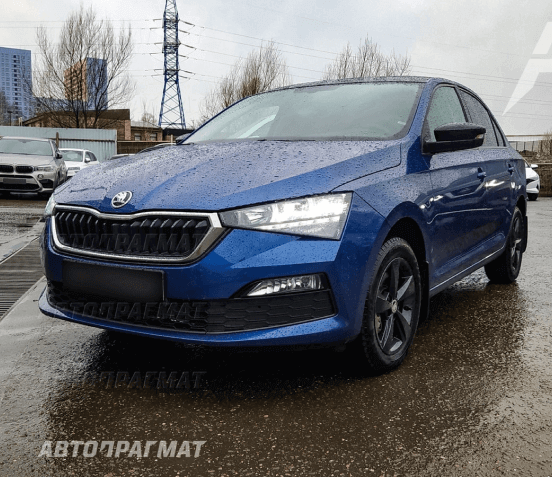
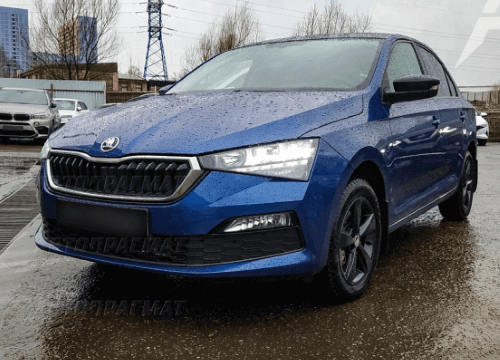
fix performance 2

diff --git a/css/common.css b/css/common.css
@@ -1,1 +1,1 @@
-:root{--Blue1: #46A6FF;--Blue2: #91CAFF;--Blue3: #3784CC;--Blue4: #225380;--Blue5: #496580;--GrayStroke1: #CFCFCF;--Gray2: #A4A4A4;--Gray3: #767676;--Gray4: #767676;--Gra5: #414141;--textColor: #ECECEC;--inputColor: #EBEBEB;--BlackBG2: #282828;--MainBlackBG: #1E1E1E}*{box-sizing:border-box}html[aria-modal=true]{--scroll-bar-width: 0;overflow:hidden;padding-right:var(--scroll-bar-width, 0)}body{background:#1e1e1e;color:#ececec;font-family:"Overpass",sans-serif;font-weight:400;font-size:14px;line-height:1.6}.apr-container{max-width:1280px;margin:0 auto;padding-left:20px;padding-right:20px}@media(max-width: 767px){.apr-container{padding-left:16px;padding-right:16px}}h1,.apr-h1{font-family:"Exo 2",sans-serif;font-weight:500;font-size:40px;line-height:1.4}h2,.apr-h2{font-family:"Exo 2",sans-serif;font-weight:400;font-size:35px;line-height:1.3}h3,.apr-h3{font-family:"Exo 2",sans-serif;font-weight:400;font-size:22px;line-height:1.6}h4,.apr-h4{font-family:"Exo 2",sans-serif;font-weight:400;font-size:20px;line-height:1.5}a{text-decoration:underline;color:#91caff;transition:color .2s ease}a:hover{color:#b3daff}a:active{color:#3784cc}a[aria-disabled=true]{color:#a4a4a4;pointer-events:none}a[aria-invalid=true]{color:#ec6060}.apr-select,.apr-input{font-family:"Overpass",sans-serif;font-weight:400;font-size:16px;line-height:1;background:rgba(0,0,0,0);color:#fff;border:1px solid;outline:none;padding:20px 40px;transition:border-color .2s ease}@media(max-width: 767px){.apr-select,.apr-input{font-size:12px}}.apr-select::placeholder,.apr-input::placeholder{color:currentColor;opacity:1}.apr-select:hover,.apr-input:hover{border-color:#91caff}.apr-select:focus,.apr-input:focus{border-color:#3784cc}.apr-select:disabled,.apr-input:disabled{color:#a4a4a4;border-color:currentColor}.apr-select[aria-invalid=true],.apr-input[aria-invalid=true]{color:#ec6060;border-color:currentColor}.apr-select{padding:19px 39px}.apr-select option{background:#1e1e1e;color:#fff}.apr-button{font-family:"Exo 2",sans-serif;font-weight:400;font-size:16px;line-height:1.6;white-space:nowrap;cursor:pointer;border:none;outline:none;padding:20px 40px}@media(max-width: 767px){.apr-button{font-size:14px}}.apr-button:disabled{pointer-events:none}.apr-button[type=submit]{color:#fff;background:#46a6ff;transition:background .2s ease}.apr-button[type=submit]:hover{background:#77bdff}.apr-button[type=submit]:focus{background:#3784cc}.apr-button[type=submit]:disabled{background:#a4a4a4}.apr-button[type=submit][aria-invalid=true]{background:#ec6060}.apr-button[type=button]{background:rgba(0,0,0,0);color:#46a6ff;padding:19px 39px;border:1px solid;transition:all .2s ease}.apr-button[type=button]:hover{color:#77bdff}.apr-button[type=button]:active{color:#3784cc}.apr-button[type=button]:disabled,.apr-button[type=button][aria-disabled=true]{color:#a4a4a4}.apr-button[type=button][aria-invalid=true]{color:#ec6060}.apr-button.apr-request{min-width:210px;padding:14px}.apr-button.apr-pay{min-width:230px;padding:14px;color:#fff;border-color:#a4a4a4}.apr-button.apr-pay:hover{border-color:currentColor}.apr-button.apr-pay:active{border-color:currentColor}.apr-t4{font-weight:500;font-size:18px;line-height:1.5}.apr-t3{font-weight:400;font-size:16px;line-height:1.6}.apr-t2{font-weight:400;font-size:14px;line-height:1.6}.apr-t1{font-weight:400;font-size:12px;line-height:1.6}.apr-menu,.apr-menu ul{list-style:none;margin:0;padding:0}.apr-menu-item{display:inline-block;position:relative;padding-bottom:2px;text-decoration:none;color:#ebebeb}.apr-menu-item::after{content:"";position:absolute;bottom:0;left:0;width:0;border-bottom:2px solid}.apr-menu-item:hover{color:#46a6ff}.apr-menu-item:hover::after{width:100%;transition:width .5s ease}.apr-address{color:#ececec;text-decoration:none;display:flex;white-space:nowrap}.apr-address::before{content:"";flex-shrink:0;margin-right:10px;width:18px;height:22px;background:url("../img/point.svg") 0 0 no-repeat}.apr-mail{color:#ececec;text-decoration:none;display:flex}.apr-mail::before{content:"";flex-shrink:0;margin-right:10px;width:18px;height:18px;background:url("../img/at.svg") 0 0 no-repeat}.apr-phone{font-weight:700;color:#fff;text-decoration:none;white-space:nowrap}.apr-social{font-size:0;line-height:0;opacity:.8;transition:opacity .2s ease}.apr-social:hover{opacity:1}.apr-social[href^="//vk.com/"]{background:url("../img/vk.svg") 0 0 no-repeat;display:inline-block;width:31px;height:31px}.apr-social[href^="//youtube.com/"]{background:url("../img/yt.svg") 0 0 no-repeat;display:inline-block;width:34px;height:27px}.swiper{--swiper-theme-color: #46A6FF}.swiper-button-next,.swiper-button-prev{--swiper-navigation-size: 36px;font-family:Arial,serif;width:83px;height:45px;border:1px solid var(--swiper-theme-color);outline:none;display:inline-flex;align-items:flex-start;transition:all .2s ease}.swiper-button-next:hover,.swiper-button-prev:hover{background:var(--swiper-theme-color);color:#fff}.swiper-button-next.swiper-button-disabled,.swiper-button-prev.swiper-button-disabled{opacity:1;cursor:auto;pointer-events:auto}.swiper-button-prev::after{content:"←"}.swiper-button-next::after{content:"→"}.swiper-pagination{--swiper-pagination-color: #91CAFF;--swiper-pagination-bullet-size: 12px;--swiper-pagination-bullet-horizontal-gap: 5px;display:flex;align-items:center;justify-content:center;flex-wrap:wrap;width:100%}.swiper-pagination-bullet{border-radius:0;display:inline-flex;align-items:center;justify-content:center;color:var(--swiper-pagination-color);background:rgba(0,0,0,0);border:1px solid;opacity:1;margin:0 var(--swiper-pagination-bullet-horizontal-gap);transition:color .2s ease}.swiper-pagination-bullet:hover{--swiper-pagination-color: #46A6FF}.swiper-pagination-bullet-active{--swiper-pagination-color: #46A6FF;--swiper-pagination-bullet-size: 19px;background:currentColor}.apr-swiper{max-width:500px;outline:none;user-select:none;-webkit-user-select:none}.apr-modal{z-index:4;position:fixed;top:0;left:0;width:100%;height:100%;background:rgba(0,0,0,.6);overflow-y:auto;overflow-x:hidden;opacity:0;transition:opacity 200ms;line-height:100vh;font-size:0;text-align:center;pointer-events:none}.apr-modal[aria-modal=true]{pointer-events:auto;opacity:1;transition:opacity 200ms}.apr-modal__inner{position:relative;vertical-align:middle;display:inline-block;background:#1e1e1e;border:1px solid #a4a4a4;padding:50px 60px;text-align:initial;font-size:14px;line-height:1.6;margin:16px}.apr-modal__close{position:absolute;top:0;right:0;cursor:pointer;color:#414141;font-size:25px;line-height:1;padding:10px;font-family:arial,serif}.apr-modal form{max-width:662px}/*# sourceMappingURL=common.css.map */
+:root{--Blue1: #46A6FF;--Blue2: #91CAFF;--Blue3: #3784CC;--Blue4: #225380;--Blue5: #496580;--GrayStroke1: #CFCFCF;--Gray2: #A4A4A4;--Gray3: #767676;--Gray4: #767676;--Gra5: #414141;--textColor: #ECECEC;--inputColor: #EBEBEB;--BlackBG2: #282828;--MainBlackBG: #1E1E1E}*{box-sizing:border-box}html[aria-modal=true]{--scroll-bar-width: 0;overflow:hidden;padding-right:var(--scroll-bar-width, 0)}body{background:#1e1e1e;color:#ececec;font-family:"Overpass",sans-serif;font-weight:400;font-size:14px;line-height:1.6}.apr-container{max-width:1280px;margin:0 auto;padding-left:20px;padding-right:20px}@media(max-width: 767px){.apr-container{padding-left:16px;padding-right:16px}}h1,.apr-h1{font-family:"Exo 2",sans-serif;font-weight:500;font-size:40px;line-height:1.4}h2,.apr-h2{font-family:"Exo 2",sans-serif;font-weight:400;font-size:35px;line-height:1.3}h3,.apr-h3{font-family:"Exo 2",sans-serif;font-weight:400;font-size:22px;line-height:1.6}h4,.apr-h4{font-family:"Exo 2",sans-serif;font-weight:400;font-size:20px;line-height:1.5}a{text-decoration:underline;color:#91caff;transition:color .2s ease}a:hover{color:#b3daff}a:active{color:#3784cc}a[aria-disabled=true]{color:#a4a4a4;pointer-events:none}a[aria-invalid=true]{color:#ec6060}.apr-select,.apr-input{font-family:"Overpass",sans-serif;font-weight:400;font-size:16px;line-height:1;background:rgba(0,0,0,0);color:#fff;border:1px solid;outline:none;padding:20px 40px;transition:border-color .2s ease}@media(max-width: 767px){.apr-select,.apr-input{font-size:12px}}.apr-select::placeholder,.apr-input::placeholder{color:currentColor;opacity:1}.apr-select:hover,.apr-input:hover{border-color:#91caff}.apr-select:focus,.apr-input:focus{border-color:#3784cc}.apr-select:disabled,.apr-input:disabled{color:#a4a4a4;border-color:currentColor}.apr-select[aria-invalid=true],.apr-input[aria-invalid=true]{color:#ec6060;border-color:currentColor}.apr-select{padding:19px 39px}.apr-select option{background:#1e1e1e;color:#fff}.apr-button{font-family:"Exo 2",sans-serif;font-weight:400;font-size:16px;line-height:1.6;white-space:nowrap;cursor:pointer;border:none;outline:none;padding:20px 40px}@media(max-width: 767px){.apr-button{font-size:14px}}.apr-button:disabled{pointer-events:none}.apr-button[type=submit]{color:#fff;background:#46a6ff;transition:background .2s ease}.apr-button[type=submit]:hover{background:#77bdff}.apr-button[type=submit]:focus{background:#3784cc}.apr-button[type=submit]:disabled{background:#a4a4a4}.apr-button[type=submit][aria-invalid=true]{background:#ec6060}.apr-button[type=button]{background:rgba(0,0,0,0);color:#46a6ff;padding:19px 39px;border:1px solid;transition:all .2s ease}.apr-button[type=button]:hover{color:#77bdff}.apr-button[type=button]:active{color:#3784cc}.apr-button[type=button]:disabled,.apr-button[type=button][aria-disabled=true]{color:#a4a4a4}.apr-button[type=button][aria-invalid=true]{color:#ec6060}.apr-button.apr-request{min-width:210px;padding:14px}.apr-button.apr-pay{min-width:230px;padding:14px;color:#fff;border-color:#a4a4a4}.apr-button.apr-pay:hover{border-color:currentColor}.apr-button.apr-pay:active{border-color:currentColor}.apr-t4{font-weight:500;font-size:18px;line-height:1.5}.apr-t3{font-weight:400;font-size:16px;line-height:1.6}.apr-t2{font-weight:400;font-size:14px;line-height:1.6}.apr-t1{font-weight:400;font-size:12px;line-height:1.6}.apr-menu,.apr-menu ul{list-style:none;margin:0;padding:0}.apr-menu-item{display:inline-block;position:relative;padding-bottom:2px;text-decoration:none;color:#ebebeb}.apr-menu-item::after{content:"";position:absolute;bottom:0;left:0;width:0;border-bottom:2px solid}.apr-menu-item:hover{color:#46a6ff}.apr-menu-item:hover::after{width:100%;transition:width .5s ease}.apr-address{color:#ececec;text-decoration:none;display:flex;white-space:nowrap}.apr-address::before{content:"";flex-shrink:0;margin-right:10px;width:18px;height:22px;background:url("../img/point.svg") 0 0 no-repeat}.apr-mail{color:#ececec;text-decoration:none;display:flex}.apr-mail::before{content:"";flex-shrink:0;margin-right:10px;width:18px;height:18px;background:url("../img/at.svg") 0 0 no-repeat}.apr-phone{font-weight:700;color:#fff;text-decoration:none;white-space:nowrap}.apr-social{font-size:0;line-height:0;opacity:.8;transition:opacity .2s ease}.apr-social:hover{opacity:1}.apr-social[href^="//vk.com/"]{background:url("../img/vk.svg") 0 0 no-repeat;display:inline-block;width:31px;height:31px}.apr-social[href^="//youtube.com/"]{background:url("../img/yt.svg") 0 0 no-repeat;display:inline-block;width:34px;height:27px}.swiper{--swiper-theme-color: #46A6FF}.swiper-button-next,.swiper-button-prev{--swiper-navigation-size: 36px;font-family:Arial,serif;width:83px;height:45px;border:1px solid var(--swiper-theme-color);outline:none;display:inline-flex;align-items:flex-start;transition:all .2s ease}.swiper-button-next:hover,.swiper-button-prev:hover{background:var(--swiper-theme-color);color:#fff}.swiper-button-next.swiper-button-disabled,.swiper-button-prev.swiper-button-disabled{opacity:1;cursor:auto;pointer-events:auto}.swiper-button-prev::after{content:"←"}.swiper-button-next::after{content:"→"}.swiper-pagination{--swiper-pagination-color: #91CAFF;--swiper-pagination-bullet-size: 12px;--swiper-pagination-bullet-horizontal-gap: 5px;display:flex;align-items:center;justify-content:center;flex-wrap:wrap;width:100%}.swiper-pagination-bullet{border-radius:0;display:inline-flex;align-items:center;justify-content:center;color:var(--swiper-pagination-color);background:rgba(0,0,0,0);border:1px solid;opacity:1;margin:0 var(--swiper-pagination-bullet-horizontal-gap);transition:color .2s ease}.swiper-pagination-bullet:hover{--swiper-pagination-color: #46A6FF}.swiper-pagination-bullet-active{--swiper-pagination-color: #46A6FF;--swiper-pagination-bullet-size: 19px;background:currentColor}.apr-swiper{outline:none;user-select:none;-webkit-user-select:none}.apr-swiper img{max-width:100%;object-fit:contain}.apr-modal{z-index:4;position:fixed;top:0;left:0;width:100%;height:100%;background:rgba(0,0,0,.6);overflow-y:auto;overflow-x:hidden;opacity:0;transition:opacity 200ms;line-height:100vh;font-size:0;text-align:center;pointer-events:none}.apr-modal[aria-modal=true]{pointer-events:auto;opacity:1;transition:opacity 200ms}.apr-modal__inner{position:relative;vertical-align:middle;display:inline-block;background:#1e1e1e;border:1px solid #a4a4a4;padding:50px 60px;text-align:initial;font-size:14px;line-height:1.6;margin:16px}.apr-modal__close{position:absolute;top:0;right:0;cursor:pointer;color:#414141;font-size:25px;line-height:1;padding:10px;font-family:arial,serif}.apr-modal form{max-width:662px}/*# sourceMappingURL=common.css.map */

diff --git a/index.html b/index.html
@@ -2,7 +2,6 @@
 <html lang="ru">
 <head>
   <meta charset="UTF-8">
-  <!--<meta name="viewport" content="width=device-width, initial-scale=1.0, minimum-scale=1.0, maximum-scale=1.0, user-scalable=0">-->
   <meta name="viewport" content="width=device-width, initial-scale=1.0, minimum-scale=1.0">
   <meta name="theme-color" content="#1E1E1E"/>
   <link rel="icon" href="favicon.ico" sizes="any">
@@ -12,17 +11,16 @@
   <title>new autopragmat</title>
   <meta name="description" content="Автопрагмат">
 
-  <link rel="stylesheet" href="https://cdnjs.cloudflare.com/ajax/libs/normalize/8.0.1/normalize.min.css">
-  <link rel="preconnect" href="https://fonts.googleapis.com">
-  <link rel="preconnect" href="https://fonts.gstatic.com" crossorigin>
-  <link rel="stylesheet" href="https://fonts.googleapis.com/css2?family=Overpass:wght@400;500;700&family=Exo+2:wght@400;500;700&display=swap">
-  <script src="https://api-maps.yandex.ru/2.1/?lang=ru_RU" type="text/javascript"></script>
-  <script src="https://cdnjs.cloudflare.com/ajax/libs/jquery/3.6.0/jquery.min.js" type="text/javascript"></script>
-  <link rel="stylesheet" href="https://unpkg.com/swiper@8/swiper-bundle.min.css">
-  <script src="https://unpkg.com/swiper@8/swiper-bundle.min.js"></script>
+  <link rel="preload" href="https://cdnjs.cloudflare.com/ajax/libs/normalize/8.0.1/normalize.min.css" as="style" onload="this.onload=null;this.rel='stylesheet'">
+  <noscript><link rel="stylesheet" href="https://cdnjs.cloudflare.com/ajax/libs/normalize/8.0.1/normalize.min.css"></noscript>
+  <link rel="preload" href="https://fonts.googleapis.com/css2?family=Overpass:wght@400;500;700&family=Exo+2:wght@400;500;700&display=swap" as="style" onload="this.onload=null;this.rel='stylesheet'">
+  <noscript><link rel="stylesheet" href="https://fonts.googleapis.com/css2?family=Overpass:wght@400;500;700&family=Exo+2:wght@400;500;700&display=swap"></noscript>
+  <link rel="preload" href="https://unpkg.com/swiper@8/swiper-bundle.min.css" as="style" onload="this.onload=null;this.rel='stylesheet'">
+  <noscript><link rel="stylesheet" href="https://unpkg.com/swiper@8/swiper-bundle.min.css"></noscript>
 
-  <link rel="stylesheet" href="css/common.css"/>
-  <link rel="stylesheet" href="css/layout.css"/>
+  <link rel="stylesheet" href="css/common.css">
+  <link rel="stylesheet" href="css/layout.css">
+
   <script src="js/common.js" type="text/javascript"></script>
 </head>
 <body>
@@ -129,11 +127,17 @@
       </label>
     </p>
   </form>
-  <div class="apr-swiper swiper">
+  <div class="apr-swiper swiper" style="max-width:500px;">
     <div class="swiper-wrapper">
-      <img class="swiper-slide" src="img/pic1.webp" alt="Slide 1">
-      <img class="swiper-slide" src="img/pic2.webp" alt="Slide 2">
-      <img class="swiper-slide" src="img/pic3.webp" alt="Slide 3">
+      <div class="swiper-slide">
+        <img src="img/pic1.webp" width="500" height="360" alt="Slide 1" loading="lazy">
+      </div>
+      <div class="swiper-slide">
+        <img src="img/pic2.webp" width="500" height="360" alt="Slide 2" loading="lazy">
+      </div>
+      <div class="swiper-slide">
+        <img src="img/pic3.webp" width="500" height="360" alt="Slide 3" loading="lazy">
+      </div>
     </div>
     <div class="swiper-pagination"></div>
     <div class="swiper-button-prev"></div>

diff --git a/js/common.js b/js/common.js
@@ -1,3 +1,16 @@
+window.$loadScript = (url, async = false, defer = false) =>
+  new Promise((resolve, reject) => {
+    var script = document.createElement('script');
+    script.type = 'text/javascript';
+    script.async = async;
+    script.defer = defer;
+    script.onload = resolve;
+    script.onerror = reject;
+    script.src = url;
+    var s = document.getElementsByTagName('script')[0];
+    s.parentNode.insertBefore(script, s);
+  });
+
 function footerMapInit() {
   ymaps.ready(function () {
     var coord = [55.81242804203617, 37.631908033779695];
@@ -62,7 +75,15 @@ function swiperInit() {
 }
 
 document.addEventListener('DOMContentLoaded', function (event) {
-  footerMapInit();
-  modalInit();
-  swiperInit();
+  window.$loadScript('https://cdnjs.cloudflare.com/ajax/libs/jquery/3.6.0/jquery.min.js', true).then(function () {
+    modalInit();
+
+    window.$loadScript('https://unpkg.com/swiper@8/swiper-bundle.min.js', true).then(function () {
+      swiperInit();
+    });
+
+    window.$loadScript('https://api-maps.yandex.ru/2.1/?lang=ru_RU', true).then(function () {
+      footerMapInit();
+    });
+  });
 });

diff --git a/css/common.scss b/css/common.scss
@@ -421,8 +421,12 @@ a {
 }
 
 .apr-swiper {
-  max-width: 500px;
   @include selectNone;
+
+  img {
+    max-width: 100%;
+    object-fit: contain;
+  }
 }
 
 .apr-modal {
